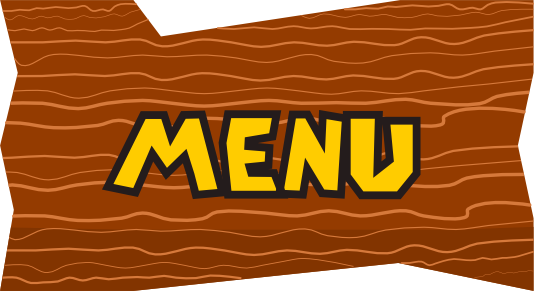
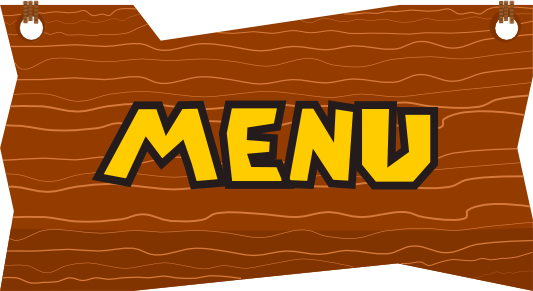
added highscore ingame + menu items

diff --git a/source/MathFighterXNA/MathFighterXNA/Entity/HighscoreItem.cs b/source/MathFighterXNA/MathFighterXNA/Entity/HighscoreItem.cs
@@ -1,0 +1,64 @@
+using System;
+using System.Collections.Generic;
+using System.Linq;
+using System.Text;
+using ClownSchool.Highscore;
+using Microsoft.Xna.Framework;
+using Microsoft.Xna.Framework.Graphics;
+
+namespace ClownSchool.Entity {
+    public class HighscoreItem : BaseEntity {
+
+        public Score Score { get; set; }
+
+        private float pictureSizeDivisor = 9f;
+
+        private static float maxPictureSizeDivisor = 9f;
+        private static float minPictureSizeDivisor = 2f;
+
+        public HighscoreItem(int posX, int posY, Score score) {
+            Score = score;
+            X = posX;
+            Y = posY;
+
+            Size = new Point((int)(Score.Picture.Width / maxPictureSizeDivisor), (int)(Score.Picture.Height / maxPictureSizeDivisor));
+            Offset = new Point(4, 10);
+
+            CollisionType = "score_item";
+        }
+
+        public override void Init() {
+            
+        }
+
+        public override void Update(GameTime gameTime) {
+            base.Update(gameTime);
+
+            if (GetFirstCollidingEntity("hand") != null) {
+                if (pictureSizeDivisor > minPictureSizeDivisor) {
+                    pictureSizeDivisor -= 0.2f;
+                    ZDepth = 100;
+                } else {
+                    pictureSizeDivisor = minPictureSizeDivisor;                    
+                }
+            } else {
+                if (pictureSizeDivisor < maxPictureSizeDivisor) {
+                    pictureSizeDivisor += 0.2f;
+                } else {
+                    pictureSizeDivisor = maxPictureSizeDivisor;
+                    ZDepth = 1;
+                }
+            }
+        }
+
+        public override void Draw(Microsoft.Xna.Framework.Graphics.SpriteBatch spriteBatch) {
+            spriteBatch.Draw(Score.Picture, new Rectangle(X + 80, Y + 55, (int)(Score.Picture.Width / pictureSizeDivisor), (int)(Score.Picture.Height / pictureSizeDivisor)), null, Color.White, 0, new Vector2(Score.Picture.Width / 2, Score.Picture.Height / 2), SpriteEffects.None, 0);
+            foreach (var num in FontNumber.FromInteger(Score.Value, X + 300, Y + 25, new Point(27, 40), "0000", FontNumber.FontNumberColor.Yellow)) {
+                num.Draw(spriteBatch);
+            }         
+        }
+
+        public override void Delete() {            
+        }
+    }
+}

diff --git a/source/MathFighterXNA/MathFighterXNA/Screens/CoopPlayerScreen.cs b/source/MathFighterXNA/MathFighterXNA/Screens/CoopPlayerScreen.cs
@@ -43,7 +43,7 @@ namespace ClownSchool.Screens {
 
             AddPlayers();
 
-            MainClock = new Clock(20, 20, 10);
+            MainClock = new Clock(20, 20, 90);
             MainClock.Paused = true;
             
             AddEntity(MainClock);
@@ -269,7 +269,7 @@ namespace ClownSchool.Screens {
 
         private void addButtons() {
             var posMenu = new Vector2(300, (MainGame.Height / 2) - 250);
-            var menu = new MenuItem(Assets.MenuSignMenu, -100, -300, delegate() { Manager.SwitchScreen(new MenuScreen(Context)); Manager.FadeInSong(Assets.MenuSong, true, 0.5f); });
+            var menu = new MenuItem(Assets.SignMenu, -100, -300, delegate() { Manager.SwitchScreen(new MenuScreen(Context)); Manager.FadeInSong(Assets.MenuSong, true, 0.5f); });
             menu.Actions.AddAction(new TweenPositionTo(menu, posMenu, 2f, Back.EaseOut), true);
             AddEntity(menu);
 
@@ -278,6 +278,16 @@ namespace ClownSchool.Screens {
             var restart = new MenuItem(Assets.MenuSignRestart, MainGame.Width + 100, -300, delegate() { Manager.SwitchScreen(new CoopPlayerScreen(Context)); Manager.FadeInSong(Assets.GameSong, true, 0.2f); });
             restart.Actions.AddAction(new TweenPositionTo(restart, posRestart, 2f, Back.EaseOut), true);
             AddEntity(restart);
+
+            var posHighscore = new Vector2(MainGame.Width - 250, (MainGame.Height / 2) - 200);
+
+            var loadFrom = MainGame.CoopHighscoreDirectory;
+            if (this.GetType() == typeof(SinglePlayerScreen))
+                loadFrom = MainGame.SingleHighscoreDirectory;
+
+            var highscore = new MenuItem(Assets.SignHighscore, MainGame.Width + 100, -300, delegate() { Manager.SwitchScreen(new HighscoreScreen(Context, loadFrom)); Manager.FadeInSong(Assets.MenuSong, true, 0.2f); });
+            highscore.Actions.AddAction(new TweenPositionTo(highscore, posHighscore, 2f, Back.EaseOut), true);
+            AddEntity(highscore);
         }
 
         private void AttachWinnerBalloon(Player player) {

diff --git a/source/MathFighterXNA/MathFighterXNA/Screens/MenuScreen.cs b/source/MathFighterXNA/MathFighterXNA/Screens/MenuScreen.cs
@@ -60,7 +60,7 @@ namespace ClownSchool.Screens {
 
             MainMenu.AddItem(new MenuItem(Assets.MenuSignMultiPlayer, 0, 0, OnClick_Multiplayer));
             MainMenu.AddItem(new MenuItem(Assets.MenuSignSinglePlayer, 0, 0, OnClick_SinglePlayer));
-            MainMenu.AddItem(new MenuItem(Assets.MenuSignHighscore, 0, 0, null));
+            MainMenu.AddItem(new MenuItem(Assets.MenuSignHighscore, 0, 0, OnClick_Highscore));
             MainMenu.AddItem(new MenuItem(Assets.MenuSignHelp, 0, 0, null));
 
             LoadMenu(MainMenu);
@@ -87,6 +87,18 @@ namespace ClownSchool.Screens {
 
         void OnClick_SinglePlayer() {
             Manager.SwitchScreen(new SinglePlayerScreen(Context));
+        }
+
+        void OnClick_Highscore() {
+            LoadHighscoreMenu();
+        }
+
+        void OnClick_Highscore_Coop() {
+            Manager.SwitchScreen(new HighscoreScreen(Context, MainGame.CoopHighscoreDirectory));
+        }
+
+        void OnClick_Highscore_Single() {
+            Manager.SwitchScreen(new HighscoreScreen(Context, MainGame.SingleHighscoreDirectory));
         }
 
         public override void Update(Microsoft.Xna.Framework.GameTime gameTime) {
@@ -169,6 +181,18 @@ namespace ClownSchool.Screens {
             multiPlayer.AddItem(new MenuItem(Assets.MenuSignCoop, 0, 0, OnClick_Coop));
 
             LoadMenu(multiPlayer);           
+        }
+
+        public void LoadHighscoreMenu() {
+            RemoveEntity(MainMenu);
+
+            var highscore = new Menu();
+
+            highscore.AddItem(new MenuItem(Assets.MenuSignCoop, 0, 0, OnClick_Highscore_Coop));
+            highscore.AddItem(new MenuItem(Assets.MenuSignMenu, 0, 0, delegate() { RemoveEntity(highscore); LoadMenu(MainMenu); }));
+            highscore.AddItem(new MenuItem(Assets.MenuSignSinglePlayer, 0, 0, OnClick_Highscore_Single));
+
+            LoadMenu(highscore);
         }
     }
 }

diff --git a/source/MathFighterXNA/MathFighterXNA/Screens/HighscoreScreen.cs b/source/MathFighterXNA/MathFighterXNA/Screens/HighscoreScreen.cs
@@ -1,0 +1,57 @@
+using System;
+using System.Collections.Generic;
+using System.Linq;
+using System.Text;
+using ClownSchool.Highscore;
+using Microsoft.Xna.Framework;
+using ClownSchool.Entity;
+using ClownSchool.Entity.Menu;
+
+namespace ClownSchool.Screens {
+    public class HighscoreScreen : GameScreen {
+
+        public ScoreList Scores { get; private set; }
+        public Player Player { get; set; }
+
+
+        public HighscoreScreen(KinectContext context, string scorePath)
+            : base(context) {
+
+                Scores = ScoreList.LoadFromDirectory(scorePath);                
+        }
+
+        public override void Init() {
+            base.Init();
+
+            AddCurtain();
+
+            Player = new Player(Context, SkeletonPlayerAssignment.LeftSkeleton);
+            Player.DrawHands = true;
+
+            AddEntity(Player);
+
+            var posX = 400;
+            var posY = 235;
+
+            var width = Assets.HighscoreBoard.Width / 2;
+            var height = Assets.HighscoreBoard.Height / 2;
+
+            var board = new SimpleGraphic(Assets.HighscoreBoard, (MainGame.Width / 2) - width / 2, (MainGame.Height / 2) - (height / 2) - 50, width, height);
+            AddEntity(board);
+
+            foreach (Score s in Scores.Take(3)) {
+                var hi = new HighscoreItem(posX, posY, s);
+                AddEntity(hi);
+
+                posY += 145;
+            }
+
+            var menuSign = new MenuItem(Assets.SignMenu, (MainGame.Width / 2) - 100, (MainGame.Height) - 125, delegate() { Manager.SwitchScreen(new MenuScreen(Context)); });
+            AddEntity(menuSign);
+        }
+
+        public override void Draw(Microsoft.Xna.Framework.Graphics.SpriteBatch spriteBatch) {                      
+            base.Draw(spriteBatch);
+        }
+    }
+}

diff --git a/source/MathFighterXNA/MathFighterXNA/MainGame.cs b/source/MathFighterXNA/MathFighterXNA/MainGame.cs
@@ -10,7 +10,7 @@ namespace ClownSchool {
 
     public class MainGame : Microsoft.Xna.Framework.Game {
 
-        GraphicsDeviceManager graphics;
+        public static GraphicsDeviceManager graphics;
         ExtendedSpriteBatch spriteBatch;
         KinectContext kinectContext;
 
@@ -45,7 +45,7 @@ namespace ClownSchool {
                        
             graphics.PreferredBackBufferWidth = Width;
             graphics.PreferredBackBufferHeight = Height;
-            this.graphics.SynchronizeWithVerticalRetrace = false;
+            graphics.SynchronizeWithVerticalRetrace = false;
             IsFixedTimeStep = true;
             ConvertUnits.SetDisplayUnitToSimUnitRatio(24f);
             this.viewPortRectangle = new Rectangle(0, 0, Width, Height);
@@ -63,6 +63,7 @@ namespace ClownSchool {
             ScreenManager.AddScreen(splash);
             ScreenManager.Actions.AddAction(new WaitForCondition(delegate() { return splash.TweenerFinished; }), true);
             ScreenManager.Actions.AddAction(new CallFunction(delegate() { ScreenManager.SwitchScreen(new MenuScreen(kinectContext)); }), true);
+            //ScreenManager.Actions.AddAction(new CallFunction(delegate() { ScreenManager.SwitchScreen(new HighscoreScreen(kinectContext, SingleHighscoreDirectory)); }), true);
 
             debugComponent = new DebugComponent(this);            
 

diff --git a/source/MathFighterXNA/MathFighterXNA/Assets.cs b/source/MathFighterXNA/MathFighterXNA/Assets.cs
@@ -69,6 +69,11 @@ namespace ClownSchool {
 
         public static Texture2D SplashLogo { get; set; }
         public static Texture2D CameraFlash { get; set; }
+
+        public static Texture2D HighscoreBoard { get; set; }
+
+        public static Texture2D SignMenu { get; set; }
+        public static Texture2D SignHighscore { get; set; }
         
         public static SpriteFont DebugFont { get; set; }
         public static SpriteFont SmallDebugFont { get; set; }
@@ -154,6 +159,11 @@ namespace ClownSchool {
             SplashLogo = content.Load<Texture2D>("splash_logo");
 
             CameraFlash = content.Load<Texture2D>("camera_flash");
+
+            HighscoreBoard = content.Load<Texture2D>("Highscore/highscore_board");
+
+            SignMenu = content.Load<Texture2D>("sign_menu");
+            SignHighscore = content.Load<Texture2D>("sign_highscore");
 
             DebugFont = content.Load<SpriteFont>("DebugFont");
             SmallDebugFont = content.Load<SpriteFont>("SmallDebugFont");

diff --git a/source/MathFighterXNA/MathFighterXNA/Highscore/Score.cs b/source/MathFighterXNA/MathFighterXNA/Highscore/Score.cs
@@ -1,0 +1,28 @@
+using System;
+using System.Collections.Generic;
+using System.Linq;
+using System.Text;
+using Microsoft.Xna.Framework.Graphics;
+using System.IO;
+
+namespace ClownSchool.Highscore {
+    public class Score : IComparable<Score> {
+        public Texture2D Picture { get; set; }
+        public int Value { get; set; }
+
+        public static Score LoadFromFile(string filename) {
+            var score = new Score();
+            var file = Path.GetFileName(filename);
+            score.Value = int.Parse(file.Split('_')[0]);
+            using (var fs = new FileStream(filename, FileMode.Open)) {
+                score.Picture = Texture2D.FromStream(MainGame.graphics.GraphicsDevice, fs);
+            }
+
+            return score;
+        }
+
+        public int CompareTo(Score other) {
+            return this.Value.CompareTo(other.Value) * -1;
+        }
+    }
+}

diff --git a/source/MathFighterXNA/MathFighterXNA/Screens/VersusPlayerScreen.cs b/source/MathFighterXNA/MathFighterXNA/Screens/VersusPlayerScreen.cs
@@ -236,7 +236,7 @@ namespace ClownSchool.Screens {
             }
 
             var posMenu = new Vector2(300, (MainGame.Height / 2) - 250);
-            var menu = new MenuItem(Assets.MenuSignMenu, -100, -300, delegate() { Manager.SwitchScreen(new MenuScreen(Context)); });
+            var menu = new MenuItem(Assets.SignMenu, -100, -300, delegate() { Manager.SwitchScreen(new MenuScreen(Context)); });
             menu.Actions.AddAction(new TweenPositionTo(menu, posMenu, 2f, Back.EaseOut), true);
             AddEntity(menu);
 

diff --git a/source/MathFighterXNA/MathFighterXNA/Highscore/ScoreList.cs b/source/MathFighterXNA/MathFighterXNA/Highscore/ScoreList.cs
@@ -1,0 +1,21 @@
+using System;
+using System.Collections.Generic;
+using System.Linq;
+using System.Text;
+using System.IO;
+
+namespace ClownSchool.Highscore {
+    public class ScoreList : List<Score> {
+        public static ScoreList LoadFromDirectory(string path) {
+            var list = new ScoreList();
+
+            foreach (var file in Directory.GetFiles(path)) {
+                list.Add(Score.LoadFromFile(file));
+            }
+
+            list.Sort();
+
+            return list;
+        }
+    }
+}
